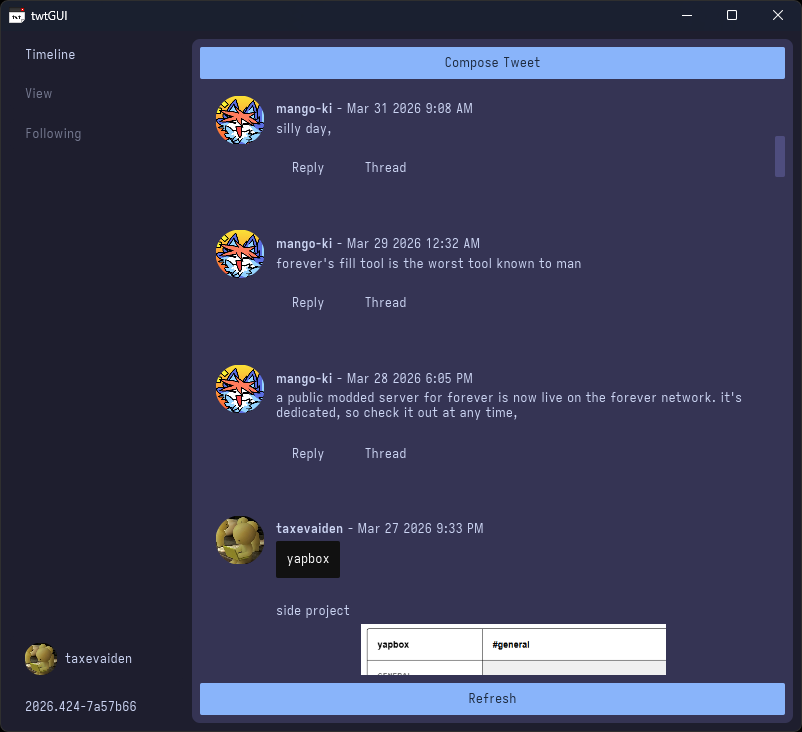
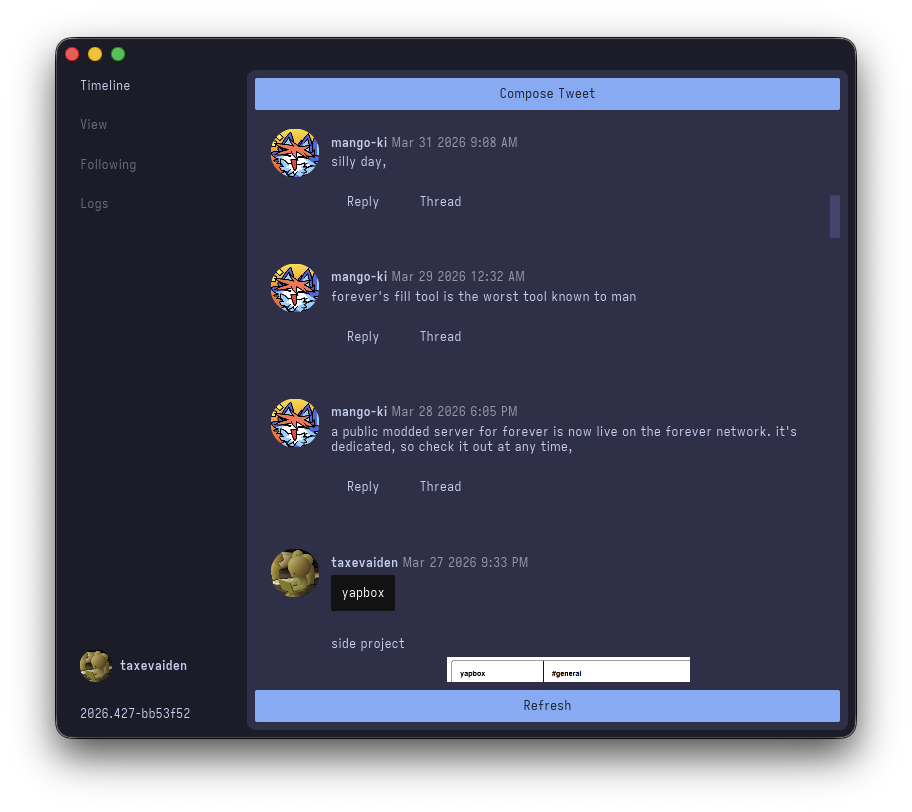
changes: - default macOS titlebar is gone

diff --git a/src/components/tweet.rs b/src/components/tweet.rs
@@ -121,7 +121,8 @@ impl TweetComponent {
         let avatar_img = Image::new(tweet.avatar.clone())
             .width(Length::Fixed(48.0))
             .height(Length::Fixed(48.0))
-            .border_radius(24);
+            .border_radius(24)
+            .filter_method(iced::widget::image::FilterMethod::Linear);
 
         let formatted_time = tweet
             .timestamp
@@ -150,12 +151,14 @@ impl TweetComponent {
                     .width(Length::Fixed(MAX_WIDTH))
                     .height(Length::Fixed(render_h))
                     .content_fit(ContentFit::Contain)
+                    .filter_method(iced::widget::image::FilterMethod::Linear)
             } else {
                 // fallback!
                 Image::new(handle.clone())
                     .width(Length::Fill)
                     .height(Length::Shrink)
                     .content_fit(ContentFit::Contain)
+                    .filter_method(iced::widget::image::FilterMethod::Linear)
             };
             images_col = images_col.push(image);
         }

diff --git a/src/app.rs b/src/app.rs
@@ -290,15 +290,20 @@ impl TwtxtApp {
                                             // Not like it owns any data and has an update fn we just give data to it
         };
 
-        row![
-            nav,
-            container(content)
-                .height(Length::Fill)
-                .style(container_style)
-                .padding(8)
+        column![
+            #[cfg(target_os = "macos")]
+            space().height(16),
+            row![
+                nav,
+                container(content)
+                    .height(Length::Fill)
+                    .style(container_style)
+                    .padding(8)
+            ]
+            .spacing(8)
+            .padding(8)
         ]
         .spacing(8)
-        .padding(8)
         .into()
     }
 }

diff --git a/src/pages/view.rs b/src/pages/view.rs
@@ -257,6 +257,7 @@ impl ViewPage {
                 .width(Length::Fixed(56.0))
                 .height(Length::Fixed(56.0))
                 .border_radius(28)
+                .filter_method(iced::widget::image::FilterMethod::Linear)
                 .into()
         } else {
             container(text("?").size(20))
@@ -283,6 +284,7 @@ impl ViewPage {
                 .width(Length::Fixed(32.0))
                 .height(Length::Fixed(32.0))
                 .border_radius(16)
+                .filter_method(iced::widget::image::FilterMethod::Linear)
                 .into()
         } else {
             container(text("?").size(13))

diff --git a/src/main.rs b/src/main.rs
@@ -49,6 +49,15 @@ fn main() -> iced::Result {
     .window(iced::window::Settings {
         min_size: Some(iced::Size::new(800.0, 700.0)),
         icon: Some(icon),
+        platform_specific: iced::window::settings::PlatformSpecific {
+            #[cfg(target_os = "macos")]
+            title_hidden: true,
+            #[cfg(target_os = "macos")]
+            titlebar_transparent: true,
+            #[cfg(target_os = "macos")]
+            fullsize_content_view: true,
+            ..Default::default()
+        },
         ..Default::default()
     })
     .settings(Settings {

diff --git a/src/components/user_card.rs b/src/components/user_card.rs
@@ -80,6 +80,7 @@ impl UserCard {
                 .width(32)
                 .height(32)
                 .border_radius(16)
+                .filter_method(iced::widget::image::FilterMethod::Linear)
                 .into(),
             None => iced::widget::space().width(32).into(),
         };

diff --git a/README.md b/README.md
@@ -4,7 +4,7 @@
 
 # twtGUI
 
-<img align="right" width="400" alt="The twtGUI client" src="./assets/client.png" style="border-radius: 8px">
+<img align="right" width="400" alt="The twtGUI client" src="./assets/client.png">
 
 A graphical client for twtxt
  
